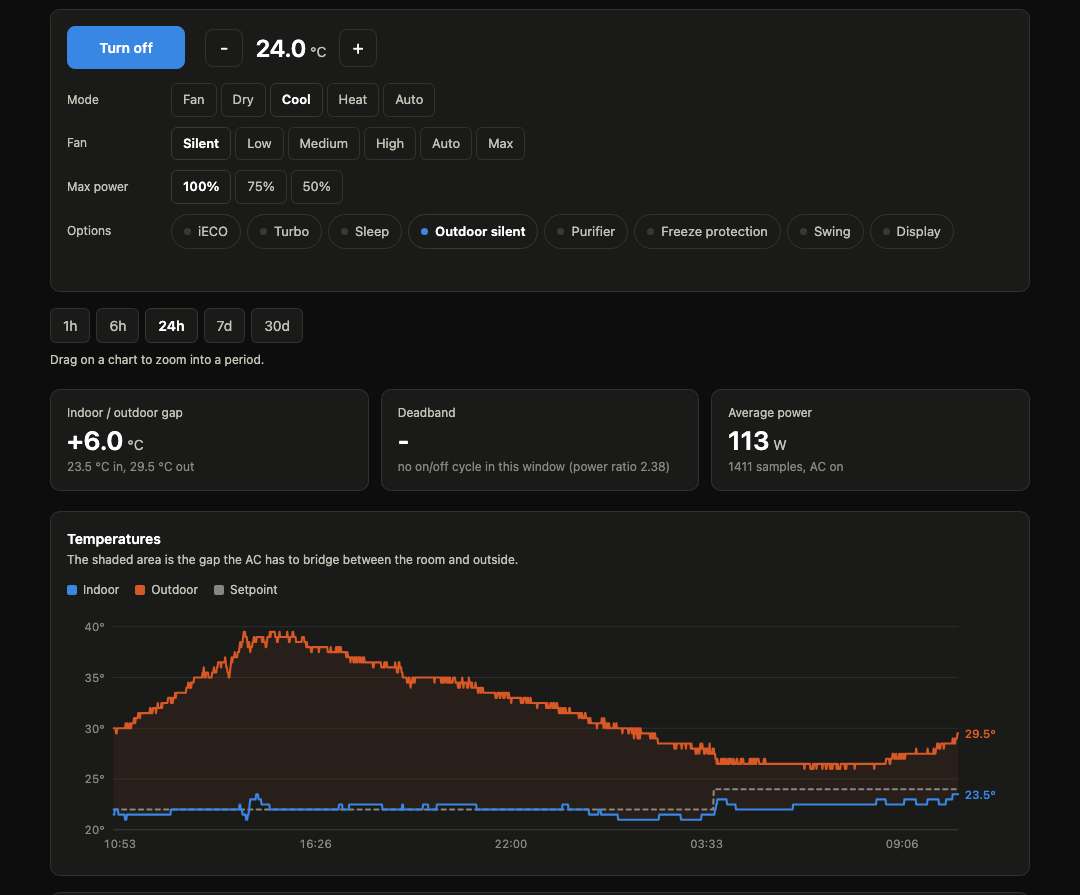
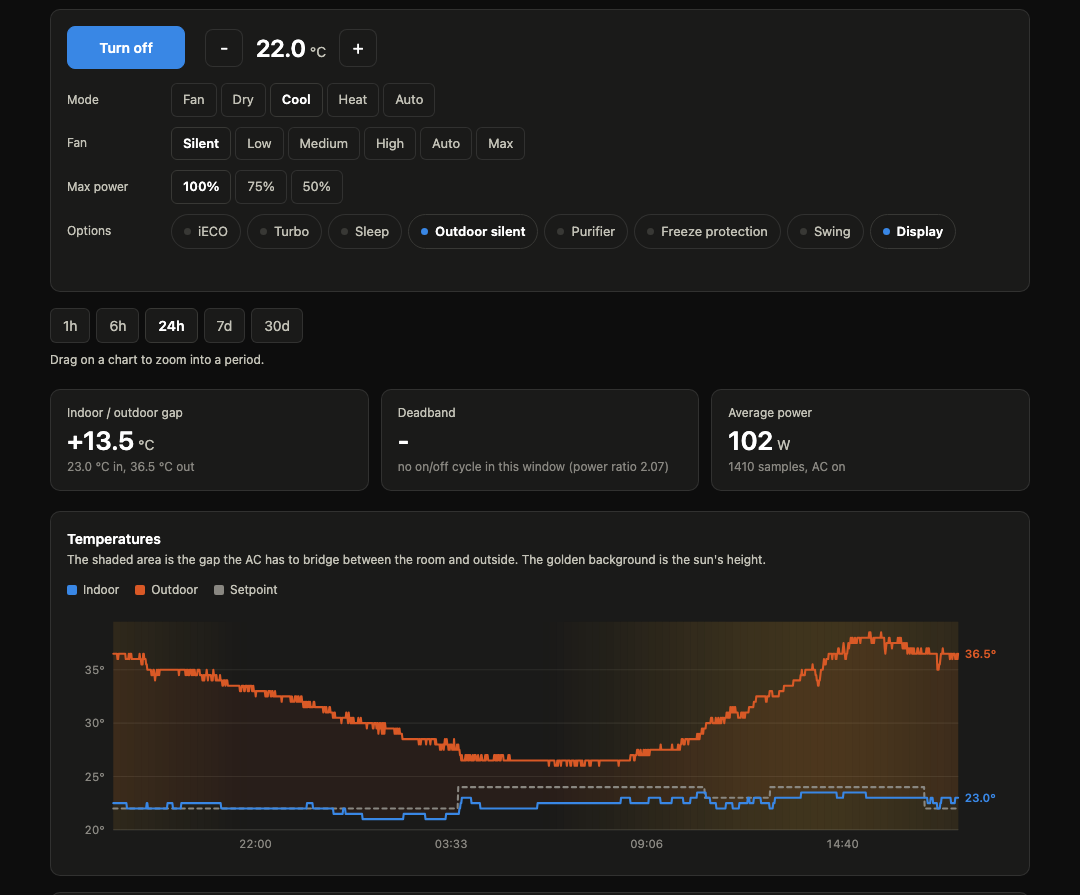
Add sun-height overlay to the temperature chart

diff --git a/chart.html b/chart.html
@@ -215,7 +215,7 @@
 
   <div class="card">
     <h2>Temperatures</h2>
-    <p class="desc">The shaded area is the gap the AC has to bridge between the room and outside.</p>
+    <p class="desc" id="temp-desc">The shaded area is the gap the AC has to bridge between the room and outside.</p>
     <div class="legend">
       <span><i class="swatch" style="background:var(--indoor)"></i>Indoor</span>
       <span><i class="swatch" style="background:var(--outdoor)"></i>Outdoor</span>
@@ -279,6 +279,26 @@ let customRange = null;
 const xDomain = () => customRange ?? [windowEnd - hours * 3600, windowEnd];
 const svgEl = (n, a = {}) => { const e = document.createElementNS("http://www.w3.org/2000/svg", n); for (const k in a) e.setAttribute(k, a[k]); return e; };
 
+// Location for the sun-height overlay, from /config. null = no sun drawn.
+let geo = null;
+
+// Solar elevation in degrees above the horizon, for a given epoch (ms) and place.
+// Low-precision NOAA formula: good to a fraction of a degree, no network needed.
+function sunElevation(ms, lat, lon) {
+  const rad = Math.PI / 180;
+  const n = ms / 86400000 + 2440587.5 - 2451545.0;  // days since J2000
+  const L = (280.460 + 0.9856474 * n) % 360;
+  const g = (357.528 + 0.9856003 * n) % 360;
+  const lambda = L + 1.915 * Math.sin(g * rad) + 0.020 * Math.sin(2 * g * rad);
+  const eps = 23.439 - 0.0000004 * n;
+  const delta = Math.asin(Math.sin(eps * rad) * Math.sin(lambda * rad)) / rad;
+  const gmst = (280.46061837 + 360.98564736629 * n) % 360;
+  const alpha = Math.atan2(Math.cos(eps * rad) * Math.sin(lambda * rad), Math.cos(lambda * rad)) / rad;
+  const hourAngle = (gmst + lon - alpha) % 360;
+  return Math.asin(Math.sin(lat * rad) * Math.sin(delta * rad)
+    + Math.cos(lat * rad) * Math.cos(delta * rad) * Math.cos(hourAngle * rad)) / rad;
+}
+
 function scale(d0, d1, r0, r1) {
   if (d1 - d0 === 0) return () => (r0 + r1) / 2;
   return (v) => r0 + (v - d0) / (d1 - d0) * (r1 - r0);
@@ -338,6 +358,22 @@ function drawTemp() {
   const xs = scale(t0, t1, M.left, W - M.right), ys = scale(lo, hi, H - M.bottom, M.top);
   const svg = frame(host, { xs, ys, xTicks: niceTicks(t0, t1, 5), yTicks: niceTicks(lo, hi, 5),
     xFmt: xFmt(), yFmt: v => v.toFixed(0) + "°" });
+
+  // Sun height as a golden background wash: brightness tracks the sun's elevation,
+  // dark at night. Not a second axis, just ambient daylight. You can see outdoor
+  // temperature peak a couple of hours after the brightest part of the day.
+  if (geo) {
+    const NB = 120, plotH = H - M.bottom - M.top;
+    for (let i = 0; i < NB; i++) {
+      const ta = t0 + (t1 - t0) * i / NB, tb = t0 + (t1 - t0) * (i + 1) / NB;
+      const e = sunElevation((ta + tb) / 2 * 1000, geo.lat, geo.lon);
+      if (e <= 0) continue;
+      svg.appendChild(svgEl("rect", { x: xs(ta), y: M.top, width: Math.max(0.5, xs(tb) - xs(ta)),
+        height: plotH, fill: "#f2b134", opacity: 0.18 * Math.min(1, e / 65) }));
+    }
+    $("#temp-desc").textContent = "The shaded area is the gap the AC has to bridge "
+      + "between the room and outside. The golden background is the sun's height.";
+  }
 
   // Area between the two curves: the gap the AC fights.
   const both = pts.filter(s => s.outdoor != null);
@@ -923,6 +959,10 @@ $("#filters").addEventListener("click", (e) => {
 window.addEventListener("resize", () => { drawTemp(); drawPower(); drawHyst(); });
 
 if (customRange) $("#zoom-reset").style.display = "";  // opened via a #zoom link
+// Sun overlay: only if the server has a location configured.
+fetch("/config").then(r => r.json()).then(c => {
+  if (c && c.lat != null && c.lon != null) { geo = c; if (samples.length) drawTemp(); }
+}).catch(() => {});
 refreshState();
 load();
 loadCommands();

diff --git a/ac_server.py b/ac_server.py
@@ -46,6 +46,18 @@ def _env_float(name: str, default: float) -> float:
         return default
 
 
+def _env_optfloat(name: str) -> float | None:
+    try:
+        return float(os.environ[name])
+    except (KeyError, ValueError):
+        return None
+
+
+# Location, only for the sun-height overlay on the temperature chart. Optional.
+AC_LAT = _env_optfloat("AC_LAT")
+AC_LON = _env_optfloat("AC_LON")
+
+
 # Overridable via env, mostly to exercise failure recovery without waiting minutes.
 TIMEOUT = _env_float("AC_TIMEOUT", 12.0)          # AC answers in 1-3s; past that, dead session
 SAMPLE_INTERVAL = _env_float("AC_SAMPLE_INTERVAL", 60.0)
@@ -548,6 +560,12 @@ async def status():
 @app.get("/capabilities")
 async def capabilities():
     return _capabilities()
+
+
[email redacted]("/config")
+async def config():
+    # Non-AC config for the dashboard. lat/lon drive the sun-height overlay.
+    return {"lat": AC_LAT, "lon": AC_LON}
 
 
 class Settings(BaseModel):